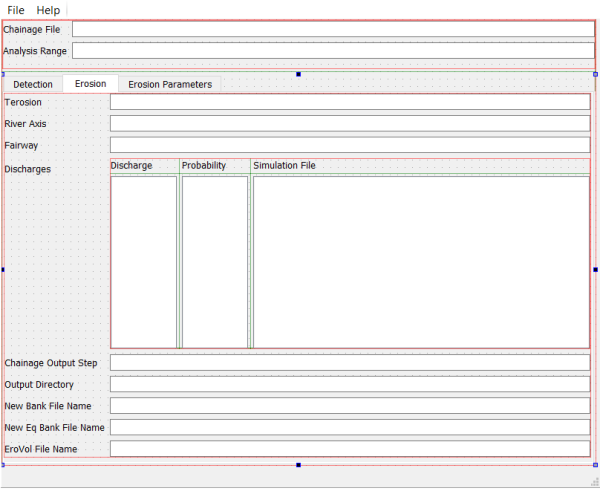
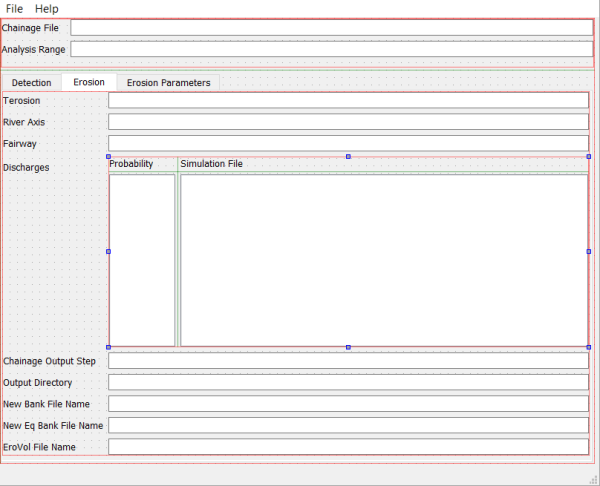
Finished all TODOs in techref.md. Don't need discharge, so removed discharge field from draft dialog. Updated timedlogger formatting. Adjusted eroded_volume file to contain one column per bank

Changed region(s): [[0.0, 0.0, 1.0, 1.0]]

diff --git a/src/dfastbe_cli.py b/src/dfastbe_cli.py
@@ -395,7 +395,7 @@ def bankerosion(filename = "config.ini"): #, variable, variable2):
         bankheight[iq] = [None] * n_banklines
         linesize[iq] = [None] * n_banklines
 
-        vol = numpy.zeros(len(km))
+        vol = numpy.zeros((len(km),n_banklines))
         for ib, bcrds in enumerate(bank_crds):
             # determine velocity and bankheight along banks ...
             dx = numpy.diff(bcrds[:, 0])
@@ -474,7 +474,7 @@ def bankerosion(filename = "config.ini"): #, variable, variable2):
                 dv_tot[ib] += dv
 
             # accumulate eroded volumes per km
-            vol = dfastbe_kernel.get_km_eroded_volume(bank_km[ib], dv, km_bin, vol)
+            vol = dfastbe_kernel.get_km_eroded_volume(bank_km[ib], dv, km_bin, ib, vol)
 
         erovol_file = dfastbe_io.config_get_str(config, "General", "erovol" + iq_str, default = "erovolQ" + iq_str + ".evo")
         print("  saving eroded volume in file: {}".format(erovol_file))
@@ -487,8 +487,8 @@ def bankerosion(filename = "config.ini"): #, variable, variable2):
     dnavship = numpy.zeros(n_banklines)
     dnaveq = numpy.zeros(n_banklines)
     dnmaxeq = numpy.zeros(n_banklines)
-    vol_eq = numpy.zeros(len(km))
-    vol_tot = numpy.zeros(len(km))
+    vol_eq = numpy.zeros((len(km), n_banklines))
+    vol_tot = numpy.zeros((len(km), n_banklines))
     for ib, bcrds in enumerate(bank_crds):
         dnav[ib] = dn_tot[ib].mean()
         dnmax[ib] = dn_tot[ib].max()
@@ -507,8 +507,8 @@ def bankerosion(filename = "config.ini"): #, variable, variable2):
         xlines_new, ylines_new = dfastbe_support.move_line(bcrds[:,0], bcrds[:,1], dn_tot[ib])
         xlines_eq, ylines_eq = dfastbe_support.move_line(bcrds[:,0], bcrds[:,1], dn_eq[ib])
 
-        vol_eq = dfastbe_kernel.get_km_eroded_volume(bank_km[ib], dv_eq[ib], km_bin, vol_eq)
-        vol_tot = dfastbe_kernel.get_km_eroded_volume(bank_km[ib], dv_tot[ib], km_bin, vol_tot)
+        vol_eq = dfastbe_kernel.get_km_eroded_volume(bank_km[ib], dv_eq[ib], km_bin, ib, vol_eq)
+        vol_tot = dfastbe_kernel.get_km_eroded_volume(bank_km[ib], dv_tot[ib], km_bin, ib, vol_tot)
         if ib < n_banklines - 1:
             print("-----------------------------------------------------")
 
@@ -537,16 +537,18 @@ def log_text(key, file=None, dict={}, repeat=1):
                 file.write(s.format(**dict) + "\n")
 
 def timedlogger(str):
-    timer()
-    logging.info(str)
+    logging.info(timer() + str)
 
 
 def timer():
     global LAST_TIME
     new_time = time.time()
     if "LAST_TIME" in globals():
-        print(new_time - LAST_TIME)
+        str = "{:6.2f} ".format(new_time - LAST_TIME)
+    else:
+        str = "       "
     LAST_TIME = new_time
+    return str
 
 
 def get_program_text(key):

diff --git a/src/dfastbe_kernel.py b/src/dfastbe_kernel.py
@@ -181,17 +181,16 @@ def comp_hw_ship_at_bank(distance_fw, dfw0, dfw1, h_input, shiptype, Tship, vshi
 def get_km_bins(km_bin):
     km_step = km_bin[2]
     # km = km_bin[0] + numpy.arange(0, int(round((km_bin[1] - km_bin[0]) / km_bin[2]) + 1)) * km_bin[2] # bin bounds
-    km = km_bin[0] + km_bin[2]/2 + numpy.arange(0, int(round((km_bin[1] - km_bin[0]) / km_bin[2]))) * km_bin[2] # bin midpoints
+    km = km_bin[0] + numpy.arange(1, int(round((km_bin[1] - km_bin[0]) / km_bin[2]) + 1)) * km_bin[2] # bin upper bounds
+    # km = km_bin[0] + km_bin[2]/2 + numpy.arange(0, int(round((km_bin[1] - km_bin[0]) / km_bin[2]))) * km_bin[2] # bin midpoints
 
     return km
 
 
-def get_km_eroded_volume(bank_km, dv, km_bin, vol):
+def get_km_eroded_volume(bank_km, dv, km_bin, col, vol):
     bank_km_mid = (bank_km[:-1] + bank_km[1:])/2
     bin_idx = numpy.rint((bank_km_mid - km_bin[0] - km_bin[2]/2) / km_bin[2]).astype(numpy.int64)
     dvol = numpy.bincount(bin_idx, weights = dv)
     nbin = len(dvol)
-    vol[:nbin] += dvol
+    vol[:nbin, col] += dvol
     return vol
-
-

diff --git a/src/dfastbe_io.py b/src/dfastbe_io.py
@@ -87,7 +87,8 @@ def read_xyc(filename, ncol = 2):
 def write_km_eroded_volumes(km, vol, filename):
     with open(filename, "w") as erofile:
         for i in range(len(km)):
-            erofile.write("{:.2f} {:.2f}\n".format(km[i], vol[i]))
+            valstr = "\t".join(["{:.2f}".format(x) for x in vol[i,:]])
+            erofile.write("{:.2f}\t".format(km[i]) + valstr + "\n")
 
 
 def read_config(filename: str):

diff --git a/docs/techref.md b/docs/techref.md
@@ -96,44 +96,85 @@ Details on the other keywords supported are given below.
 | Block          | Keyword        | Description |
 |----------------|----------------|-------------|
 | General        | Version        | Version number. Must be `1.0` |
-| General        | RiverKM        | Textfile with riverkilometres and correspondig xy-coordinates |
-| General        | Boundaries     | River chainage of the region of interest specified as rkm-start:rkm-end, e.g. 81:100 (default: all) |
+|                | RiverKM        | Textfile with riverkilometres and correspondig xy-coordinates |
+|                | Boundaries     | River chainage of the region of interest specified as rkm-start:rkm-end, e.g. 81:100 (default: all) |
 | Detect         | SimFile        | Name of simulation output file to be used for determining representative bank line |
-| Detect         | Nbank          | Number of bank lines, (default: 2) |
-| Detect         | Line _i_       | Textfile with xy-coordinates of search line _i_ |
-| Detect         | BankDir        | Directory for storing bank lines (default: current directory) |
-| Detect         | BankFile       | Text file(s) in which xy-coordinates of bank lines are stored (default 'bankfile') |
-| Detect         | LocalDir       | Directory for storing local output (default: 'local') |
-| Detect         | Waterdepth     | Water depth used for defining bank line (default: 0.0) |
-| Detect         | Dlines         | Distance from pre-defined lines used for determining bank lines (default: 50) |
-| Erosion        | Terosion       | Simulation period  [years] |
-| Erosion        | RiverAxis      | Textfile with xy-coordinates of river axis |
-| Erosion        | Fairway        | Textfile with xy-coordinates of fairway axis |
-| Erosion        | BankType       | Bank strength definition (for each bank line per river-km) |
-| Erosion        | Vship          | Relative velocity of the ships (per river-km) [m/s] |
-| Erosion        | Nship          | Number of ships per year (per river-km) |
-| Erosion        | ShipType       | Type of ship (per river-km) |
-| Erosion        | Draught        | Draught of the ships (per river-km) [m] |
-| Erosion        | NLevel         | Number of discharge levels |
-| Erosion        | SimFile _i_    | NetCDF map-file for computing bank erosion for discharge _i_ (only used when 'Nlevel'>1) |
-| Erosion        | PDischarge _i_ | Probability of discharge _i_ (sum of probabilities should be 1) |
-| Erosion        | RefLevel       | Reference level: discharge level with SimFile_i_ that is equal to 'SimFile' (only used when 'Nlevel'>1)  (default: 1) |
-| Erosion        | Classes        | Use classes (true) or critical shear stress (false) in 'BankType' (default: true) |
-| Erosion        | ProtectLevel   | Text file(s) with level of bank protection for each bank line per river-km (default: -1000) |
-| Erosion        | Slope          | Text file(s) with equilibrium slope for each bank line per river-km  (default: 20) |
-| Erosion        | OutputDir      | Directory for storing output files |
-| Erosion        | BankNew        | Text file(s) in which new xy-coordinates of bank lines are stored (default 'banknew') |
-| Erosion        | BankEq         | Text file(s) in which xy-coordinates of equilibrium bank lines are stored (default: 'bankeq') |
-| Erosion        | EroVol         | Text file in which eroded volume per river-km is stored (default: 'erovol.evo') |
-| Erosion        | OutputInterval | Bin size for which the eroded volume output is given (default: 1 km) [km] |
-| Erosion        | VelFilter      | Filtering velocity along bank lines (default: true) |
-| Erosion        | Wave0          | Distance from fairway axis at which waveheight is zero (default 200 m) |
-| Erosion        | Wave1          | Distance from fairway axis at which reduction of waveheigth to zero starts (default Wave0-50 m) |
-| Erosion        | Nwave          | Number of waves per ship (default 5) |
+|                | NBank          | Number of bank lines, (default: 2) |
+|                | Line _i_       | Textfile with xy-coordinates of search line _i_ |
+|                | BankDir        | Directory for storing bank lines (default: current directory) |
+|                | BankFile       | Text file(s) in which xy-coordinates of bank lines are stored (default 'bankfile') |
+|                | LocalDir       | Directory for storing local output (default: 'local') |
+|                | Waterdepth     | Water depth used for defining bank line (default: 0.0) |
+|                | Dlines         | Distance from pre-defined lines used for determining bank lines (default: 50) |
+| Erosion        | TErosion       | Simulation period  [years] |
+|                | RiverAxis      | Textfile with xy-coordinates of river axis |
+|                | Fairway        | Textfile with xy-coordinates of fairway axis |
+|                | NLevel         | Number of discharge levels |
+|                | RefLevel       | Reference level: discharge level with SimFile_i_ that is equal to 'SimFile' (only used when 'Nlevel'>1)  (default: 1) |
+|                | SimFile _i_    | NetCDF map-file for computing bank erosion for discharge _i_ (only used when 'Nlevel'>1) |
+|                | PDischarge _i_ | Probability of discharge _i_ (sum of probabilities should be 1) |
+|                | OutputDir      | Directory for storing output files |
+|                | BankNew        | Text file(s) in which new xy-coordinates of bank lines are stored (default 'banknew') |
+|                | BankEq         | Text file(s) in which xy-coordinates of equilibrium bank lines are stored (default: 'bankeq') |
+|                | EroVol         | Text file in which eroded volume per river-km is stored (default: 'erovol.evo') |
+|                | OutputInterval | Bin size for which the eroded volume output is given (default: 1 km) [km] |
+|                | ShipType       | Type of ship (per river-km) |
+|                | Vship          | Relative velocity of the ships (per river-km) [m/s] |
+|                | Nship          | Number of ships per year (per river-km) |
+|                | Nwave          | Number of waves per ship (default 5) |
+|                | Draught        | Draught of the ships (per river-km) [m] |
+|                | Wave0          | Distance from fairway axis at which waveheight is zero (default 200 m) |
+|                | Wave1          | Distance from fairway axis at which reduction of waveheigth to zero starts (default Wave0-50 m) |
+|                | Classes        | Use classes (true) or critical shear stress (false) in 'BankType' (default: true) |
+|                | BankType       | Bank strength definition (for each bank line per river-km) |
+|                | ProtectLevel   | Text file(s) with level of bank protection for each bank line per river-km (default: -1000) |
+|                | Slope          | Text file(s) with equilibrium slope for each bank line per river-km  (default: 20) |
+|                | Reed           | Text file(s) with reed wave damping coefficient for each bank line per river-km  (default: 0) |
+|                | VelFilter      | Filtering velocity along bank lines (default: true) |
 
 **Example**
 
-    TODO
+    [General]
+      Version        = 1.0
+      RiverKM        = inputfiles\rivkm_20m.xyc
+      Boundaries     = 68:230
+
+    [Detect]
+      SimFile        = inputfiles\SDS-krw3_00-q0075_map.nc
+      NBank          = 2
+      Line1          = inputfiles\oeverlijn_links_mod.xyc
+      Line2          = inputfiles\oeverlijn_rechts_mod.xyc
+      BankDir        = files\outputbanklines
+      BankFile       = bankline
+      LocalDir       = local
+      Waterdepth     = 0.0
+      Dlines         = [20,20]
+
+    [Erosion]
+      Terosion       = 1
+      RiverAxis      = inputfiles\maas_rivieras_mod.xyc
+      Fairway        = inputfiles\maas_rivieras_mod.xyc
+      NLevel         = 2
+      RefLevel       = 1
+      SimFile1       = inputfiles\SDS-krw3_00-q0075_map.nc
+      PDischarge1    = 0.25
+      SimFile2       = inputfiles\SDS-krw3_00-q1500_map.nc
+      PDischarge2    = 0.75
+      OutputDir      = files\outputbankerosion
+      BankNew        = banknew
+      BankEq         = bankeq
+      EroVol         = erovol_standard.evo
+      OutputInterval = 0.1
+      ShipType       = 2
+      Vship          = 5.0
+      Nship          = inputfiles\nships_totaal
+      Nwave          = 5
+      Draught        = 1.2
+      Wave0          = 150.0
+      Wave1          = 110.0
+      Classes        = false
+      BankType       = inputfiles\bankstrength_tauc
+      ProtectLevel   = inputfiles\stortsteen
 
 
 ### line geometry files
@@ -146,7 +187,7 @@ It is used to specify
 1. Original or moved bank lines
 
 The file format is equal to the file format used by WAQBANK.
-It consist two data columns; the first column specifies the x-coordinate and the second column the y-coordinate of each node of the line.
+It consists of two data columns: the first column specifies the x-coordinate and the second column the y-coordinate of each node of the line.
 
 **Example**
 
@@ -167,7 +208,7 @@ It consist two data columns; the first column specifies the x-coordinate and the
 
 This file defines the river chainage along a line.
 The file format is equal to the file format used by WAQBANK.
-It consist three data columns; the first column specifies the chainage, the second and third columns specify the x- and y-coordinates of each node of the line.
+It consists of three data columns: the first column specifies the chainage, the second and third columns specify the x- and y-coordinates of each node of the line.
 
 **Eample**
 
@@ -198,7 +239,7 @@ Many parameters may be varied along the analyzed river reach.
 
 The file format is independent of the parameter for which it's used.
 The file format is equal to the file format used by WAQBANK.
-It consist two data columns; the first column specifies the chainage and the second column the value at that location.
+It consists of two data columns: the first column specifies the chainage and the second column the value at that location.
 
 **Example**
 
@@ -230,14 +271,29 @@ The simulation result files may contain multiple time steps; the final time step
 
 ### eroded volume file
 
-This file reports on the eroded volumes along the analyzed river reach per user defined chainage bin.
-The file format is equal to the file format used by WAQBANK.
-
-TODO
+This file reports on the eroded volumes per bank along the analyzed river reach per user defined chainage bin.
+The file consists _1+N_ tab-separated data columns where _N_ is the number of bank lines processed: the first column specifies the chainage and the other columns report on the eroded bank volume per bank line accumulated be chainage bin.
+The chainage coordinate provided is the upper limit of the chainage bin for which the volume is reported on that line.
+The file format differs slightly from the file format used by WAQBANK since that file contained _N_ identical chainage columns followed by the _N_ eroded volume columns.
 
 **Example**
 
-    TODO
+    68.00   2.21    0.00
+    68.10   6.44    0.00
+    68.20   7.81    0.00
+    68.30   43.63   161.39
+    68.40   14.24   0.00
+    68.50   8.88    0.00
+    68.60   0.00    0.00
+    68.70   0.00    0.00
+    68.80   2.39    0.00
+    68.90   0.00    0.00
+    69.00   0.88    0.00
+    69.10   7.40    69.27
+    69.20   5.64    65.47
+    69.30   11.98   55.78
+    
+    ...continued...
 
 
 ### dialog text file
